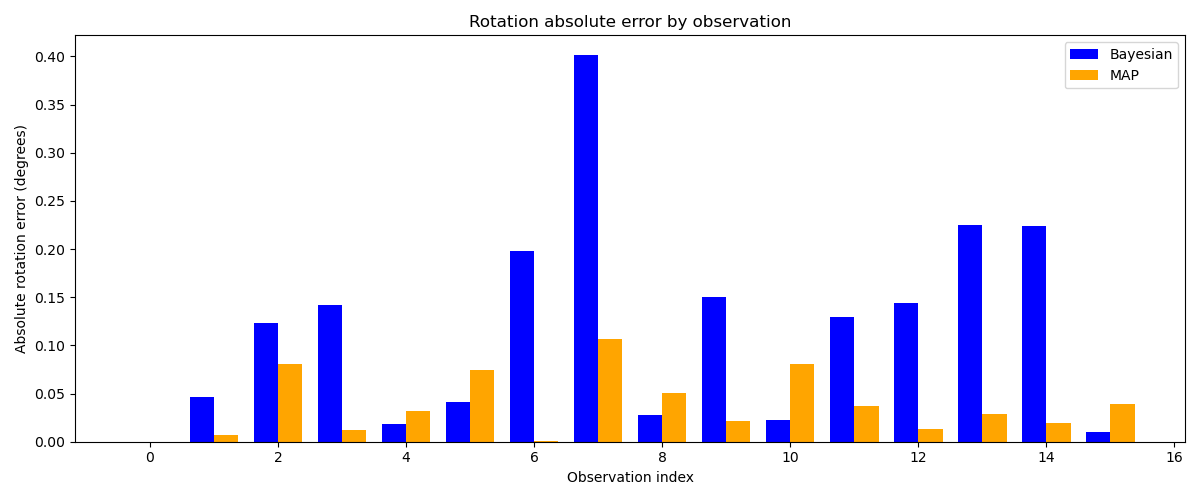
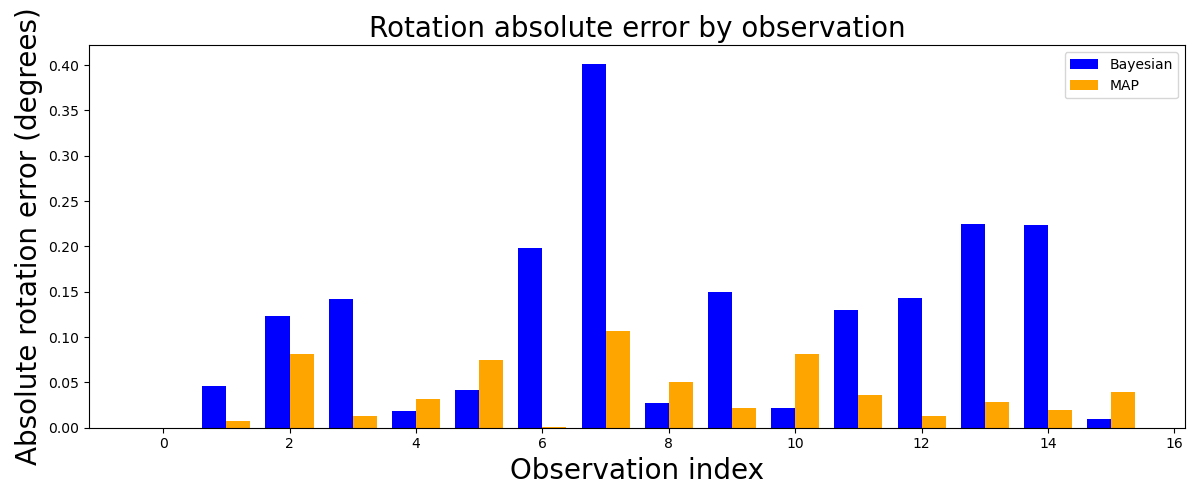
updated plots

diff --git a/src/make_plots.py b/src/make_plots.py
@@ -103,9 +103,9 @@ for i in range(K):
         linewidth=1,
     )
 
-plt.xlabel("Shift x")
-plt.ylabel("Shift y")
-plt.title("Shift Comparison")
+plt.xlabel("Shift x", size = 20)
+plt.ylabel("Shift y", size = 20)
+plt.title("Shift Comparison", size = 20)
 plt.legend()
 plt.axis("equal")  # preserve geometry
 plt.tight_layout()
@@ -135,9 +135,9 @@ plt.close()
 plt.figure(figsize=(12, 5))
 plt.bar(idx - bar_width / 2, np.rad2deg(rot_err_bayes), width=bar_width, color=bayes_color, label="Bayesian")
 plt.bar(idx + bar_width / 2, np.rad2deg(rot_err_map), width=bar_width, color=map_color, label="MAP")
-plt.xlabel("Observation index")
-plt.ylabel("Absolute rotation error (degrees)")
-plt.title("Rotation absolute error by observation")
+plt.xlabel("Observation index", size = 20)
+plt.ylabel("Absolute rotation error (degrees)", size = 20)
+plt.title("Rotation absolute error by observation", size = 20)
 plt.legend()
 plt.tight_layout()
 plt.savefig(plot_dir / "rotation_abs_error_deg.png")
